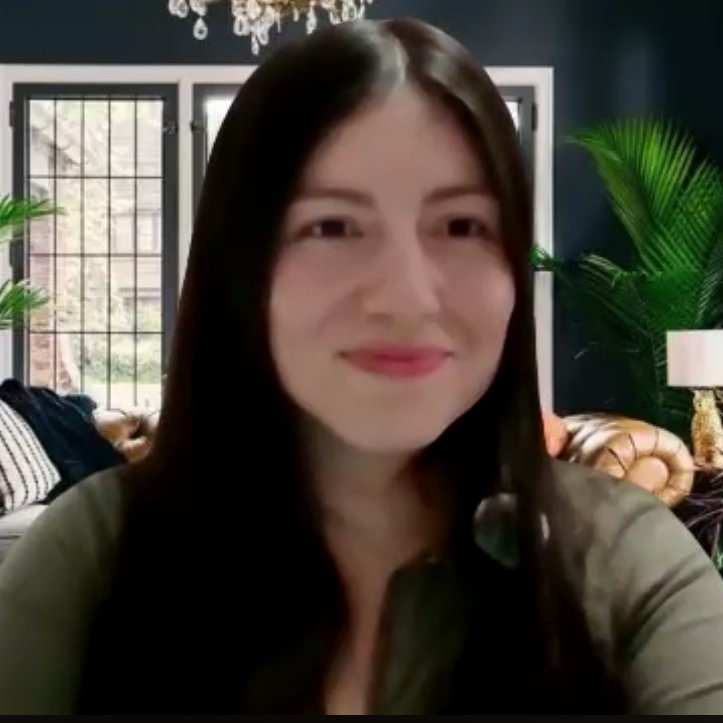
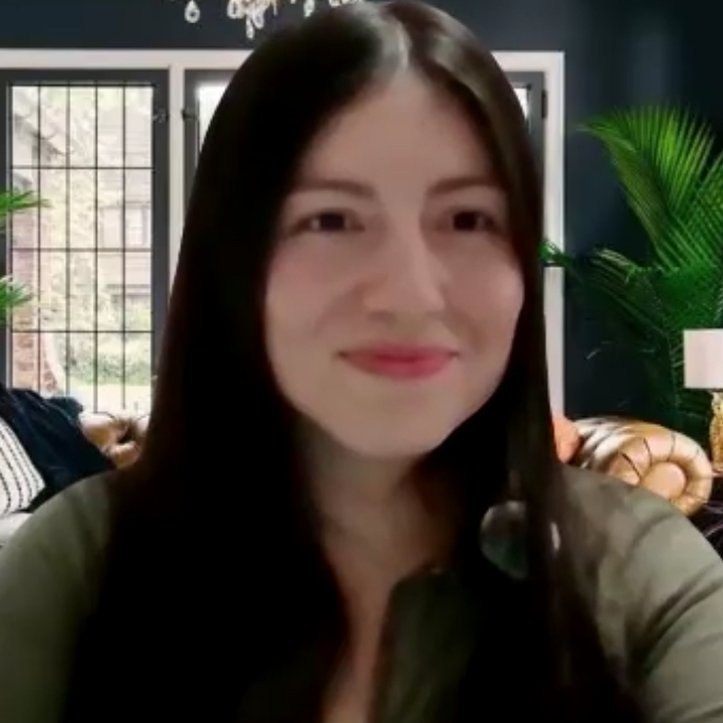
Hosts: fine-tune centering — shift Ali's crop right, zoom Luisa's 5%
- Ali's photo was still ~5% left of center; nudged the crop window
  so his nose/eye line sits on the true center.
- Zoomed Luisa's photo in 5% (same crop center) so both photos read
  at the same scale/framing.
- Cache-bust bumped to v=4 on both.

diff --git a/index.html b/index.html
@@ -202,7 +202,7 @@
         <div class="host">
           <figure>
             <div class="host__photo">
-              <img src="images/host-luisa-fernanda.jpg?v=3" alt="Luisa Fernanda, co-host of Prana Party" width="723" height="723" loading="lazy" decoding="async">
+              <img src="images/host-luisa-fernanda.jpg?v=4" alt="Luisa Fernanda, co-host of Prana Party" width="723" height="723" loading="lazy" decoding="async">
             </div>
             <figcaption class="host__name">Luisa Fernanda</figcaption>
           </figure>
@@ -210,7 +210,7 @@
         <div class="host">
           <figure>
             <div class="host__photo">
-              <img src="images/host-ali-hantal.jpg?v=3" alt="Ali C. Hantal, co-host of Prana Party" width="723" height="723" loading="lazy" decoding="async">
+              <img src="images/host-ali-hantal.jpg?v=4" alt="Ali C. Hantal, co-host of Prana Party" width="723" height="723" loading="lazy" decoding="async">
             </div>
             <figcaption class="host__name">Ali C. Hantal</figcaption>
           </figure>
